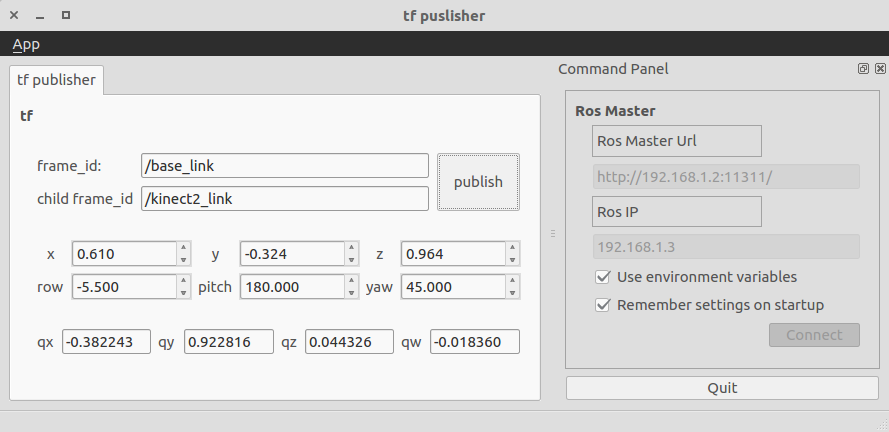
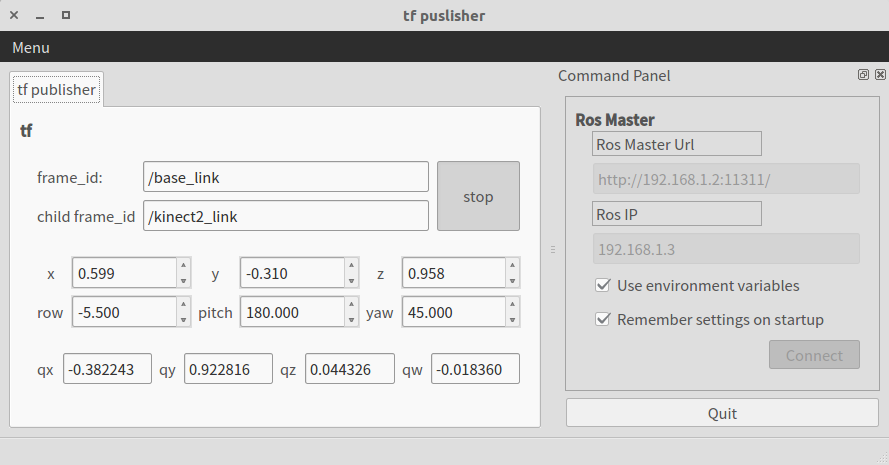
Change picture

diff --git a/src/main_window.cpp b/src/main_window.cpp
@@ -80,7 +80,16 @@ MainWindow::MainWindow(int argc, char **argv, QWidget *parent) : QMainWindow(par
 
   ReadSettings();
   setWindowIcon(QIcon(":/images/icon.png"));
-  ui.tab_manager->setCurrentIndex(0);  // ensure the first tab is showing -
+  ui.tab_manager->setCurrentIndex(0);  // ensure the first tab is showing -  
+  disableAllwidgets();
+  /*********************
+  ** Eable Gui
+  **********************/
+  QObject::connect(&qnode, SIGNAL(nodeReady()), this,
+                   SLOT(enableAllwidgets()));
+  /*********************
+  ** Shut Down
+  **********************/
   QObject::connect(&qnode, SIGNAL(rosShutdown()), this, SLOT(close()));
   /*********************
   ** Auto Start
@@ -165,8 +174,8 @@ void MainWindow::on_checkbox_use_environment_stateChanged(int state)
 
 void MainWindow::on_actionAbout_triggered()
 {
-  QMessageBox::about(this, tr("About ..."), tr("<h2>PACKAGE_NAME Test Program 0.10</h2><p>Copyright Yujin "
-                                               "Robot</p><p>This package needs an about description.</p>"));
+  QMessageBox::about(this, tr("About ..."), tr("<h2>PACKAGE_NAME transform_publisher </h2><p>Copyright Eric Zhang </p><p>An "
+         "application for publishing tf.</p>"));
 }
 
 /*****************************************************************************
@@ -307,3 +316,13 @@ void transform_publisher::MainWindow::on_doubleSpinBox_y_2_editingFinished()
 {
   updateTransform();
 }
+
+void transform_publisher::MainWindow::disableAllwidgets(){
+  ui.groupBox_tf->setEnabled(false);
+}
+
+void transform_publisher::MainWindow::enableAllwidgets(){
+  ui.groupBox_tf->setEnabled(true);
+  ui.pushButton_publish->setChecked(true);
+}
+

diff --git a/include/transform_publisher/main_window.hpp b/include/transform_publisher/main_window.hpp
@@ -49,7 +49,9 @@ class MainWindow : public QMainWindow {
   void on_actionAbout_triggered();
   void on_button_connect_clicked(bool check);
   void on_checkbox_use_environment_stateChanged(int state);
-
+  void disableAllwidgets();
+  void enableAllwidgets();
+  
  private Q_SLOTS:
   void on_lineEdit_frame_id_editingFinished();
   void on_lineEdit_child_frame_id_editingFinished();

diff --git a/src/qnode.cpp b/src/qnode.cpp
@@ -127,6 +127,8 @@ void QNode::update(std::string _frame_id, std::string _childframe_id, tf::Transf
 void QNode::run()
 {
   ros::Rate loop_rate(10.0);
+  Q_EMIT
+  nodeReady();
   while (ros::ok())
   {
     tf::Transform t = readtransform();

diff --git a/include/transform_publisher/qnode.hpp b/include/transform_publisher/qnode.hpp
@@ -53,6 +53,7 @@ class QNode : public QThread {
 Q_SIGNALS:
   void loggingUpdated();
   void rosShutdown();
+  void nodeReady();
 
  private:
   int init_argc;
